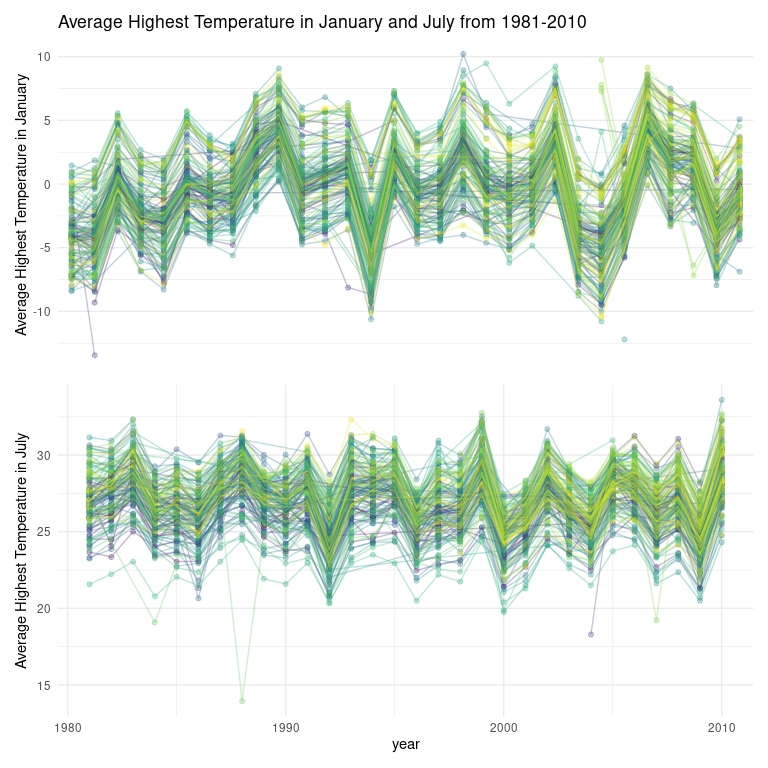
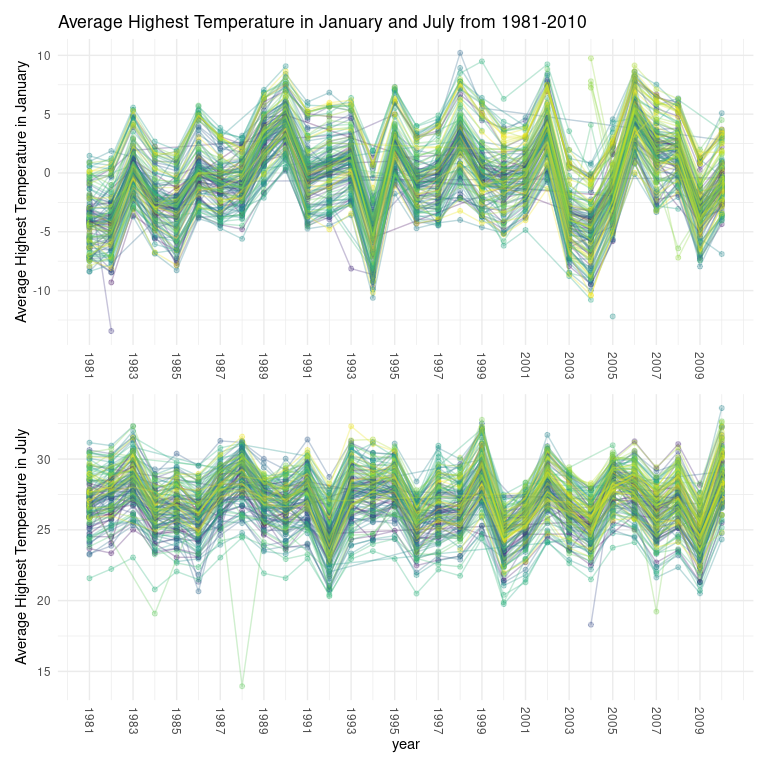
Add every year to axis x

diff --git a/P8105_hw3_zl2974.md b/P8105_hw3_zl2974.md
@@ -6,11 +6,7 @@ Jeffrey Liang
 # Problem 1
 
 ``` r
-library(p8105.datasets)
 data("instacart")
-```
-
-``` r
 instacart %>% 
   count(aisle,name = "n_count") %>% 
   arrange(desc(n_count))
@@ -137,6 +133,7 @@ accelerometer =
       mutate(day_id = 1,
              day_id = cumsum(day_id))
   )
+
 skimr::skim_without_charts(accelerometer)
 ```
 
@@ -250,7 +247,7 @@ accelerometer %>%
   )
 ```
 
-![](P8105_hw3_zl2974_files/figure-gfm/unnamed-chunk-3-1.png)<!-- -->
+![](P8105_hw3_zl2974_files/figure-gfm/smooth_activity-1.png)<!-- -->
 
  A smooth line plot of 24hr activities is made, most of the lines are
 overlapping indicate some general pattern of the subject’s daily
@@ -300,14 +297,8 @@ in Fig.2.2.
 # Problem 3
 
 ``` r
-read_ny_noaa = function(){
-  ny_noaa_tidy = "Not  Tibble"
-ny_noaa_tidy = read_csv(here::here("data/ny_noaa_tidy.csv"),
-                        col_types = "cDdddddddd")
-if(!is_tibble(ny_noaa_tidy)){
-    print("Can't load data")
-    data("ny_noaa")
-    ny_noaa_tidy = ny_noaa %>% 
+data("ny_noaa")
+ny_noaa_tidy = ny_noaa %>% 
     separate(date,
              into=c("year","month","day"),sep="-",
              remove = F) %>%
@@ -317,11 +308,7 @@ if(!is_tibble(ny_noaa_tidy)){
       snow = case_when(
       snow <0 ~0,
       snow >= 0 ~snow))
-  write_csv(ny_noaa_tidy,here::here("data/ny_noaa_tidy.csv"))
-    }
-return(ny_noaa_tidy)
-}
-ny_noaa_tidy = read_ny_noaa()
+    
 skimr::skim_without_charts(ny_noaa_tidy %>% select(-id))
 ```
 
@@ -391,7 +378,11 @@ ny_noaa_tidy %>%
   geom_path(alpha = 0.3)+
   theme(legend.position = 'none',
         axis.title.x = element_blank())+
-  scale_x_discrete(labels = c())+
+  scale_x_continuous(breaks = seq(1981,2010,2),
+                     limits = c(1981,2010))+
+  theme(axis.text.x = element_text(angle = -90,
+                                   vjust = 0.5,
+                                   hjust = 1))+
   labs(title = "Average Highest Temperature in January and July from 1981-2010",
        y = "Average Highest Temperature in January")
 
@@ -410,7 +401,12 @@ plt_2 =
   geom_point(alpha = 0.3)+
   geom_path(alpha = 0.3)+
   theme(legend.position = 'none')+
-  labs(y = "Average Highest Temperature in July")
+  labs(y = "Average Highest Temperature in July")+
+  scale_x_continuous(breaks = seq(1981,2010,2),
+                     limits = c(1981,2010))+
+  theme(axis.text.x = element_text(angle = -90,
+                                   vjust = 0.5,
+                                   hjust = 1))
 
 plt_1 / plt_2
 ```
@@ -436,13 +432,16 @@ ny_noaa_tidy %>%
     mutate(observation = forcats::fct_relevel(observation,c("tmin","tmax"))) %>% 
     ggplot(aes(x = as.factor(year), y = temperature, color = observation))+
     geom_boxplot(outlier.size = 0.2)+
-    scale_x_discrete(breaks = c(1980,1990,2000,2010),
+    scale_x_discrete(breaks = seq(1981,2010,1),
                      name = "Year")+
     viridis::scale_color_viridis(discrete = T,
                                  option = "D",
                                  name = "Observation")+
     labs(y = "Temperature(C)",
-         caption = "Fig 3.2")
+         caption = "Fig 3.2")+
+    theme(axis.text.x = element_text(angle = -90,
+                                     vjust = 0.5,
+                                     hjust = 1))
 
 plt_2 = 
 ny_noaa_tidy %>% 
@@ -453,13 +452,19 @@ ny_noaa_tidy %>%
                           group = as.factor(year)),
                           alpha = 0.2,
                       rel_min_height = 0.15)+
-  theme(axis.title.x = element_blank())+
+  theme(axis.title.x = element_blank(),
+        axis.text.x = element_text(angle = -90,
+                                   vjust = 0.5,
+                                   size = 8,
+                                   hjust = 1))+
   scale_x_continuous(trans = "log",
-                     breaks = c(5, 15,40, 100),
-                     position = "top")+
+                     breaks = c(5, 15,40, 100))+
+  scale_y_continuous(breaks = seq(1981,2010,1),
+                     limits = c(1981,NA))+
   coord_flip()+
   labs(title = "Density for snowfall and Boxplot for Temperature from 1908 to 2010",
        x = "Snowfall(mm)")
+
 (plt_2 / plt_1)+ plot_layout(guides = 'collect',widths = 8, heights = 16)
 ```
 
@@ -472,4 +477,5 @@ temperature is occurring less often in 2000s compared to before 2000.
 Density ridges with flipped coordinate is use to show snowfall pattern.
 The kernel density becomes flatten in 2009 and 2010. Also, light
 snowfall(\<=10 mm) is taking higher proportion of total snowfall. So,
-some evidence might lying in this data.
+some evidence favor the theorem of global warming might lying in this
+data.
